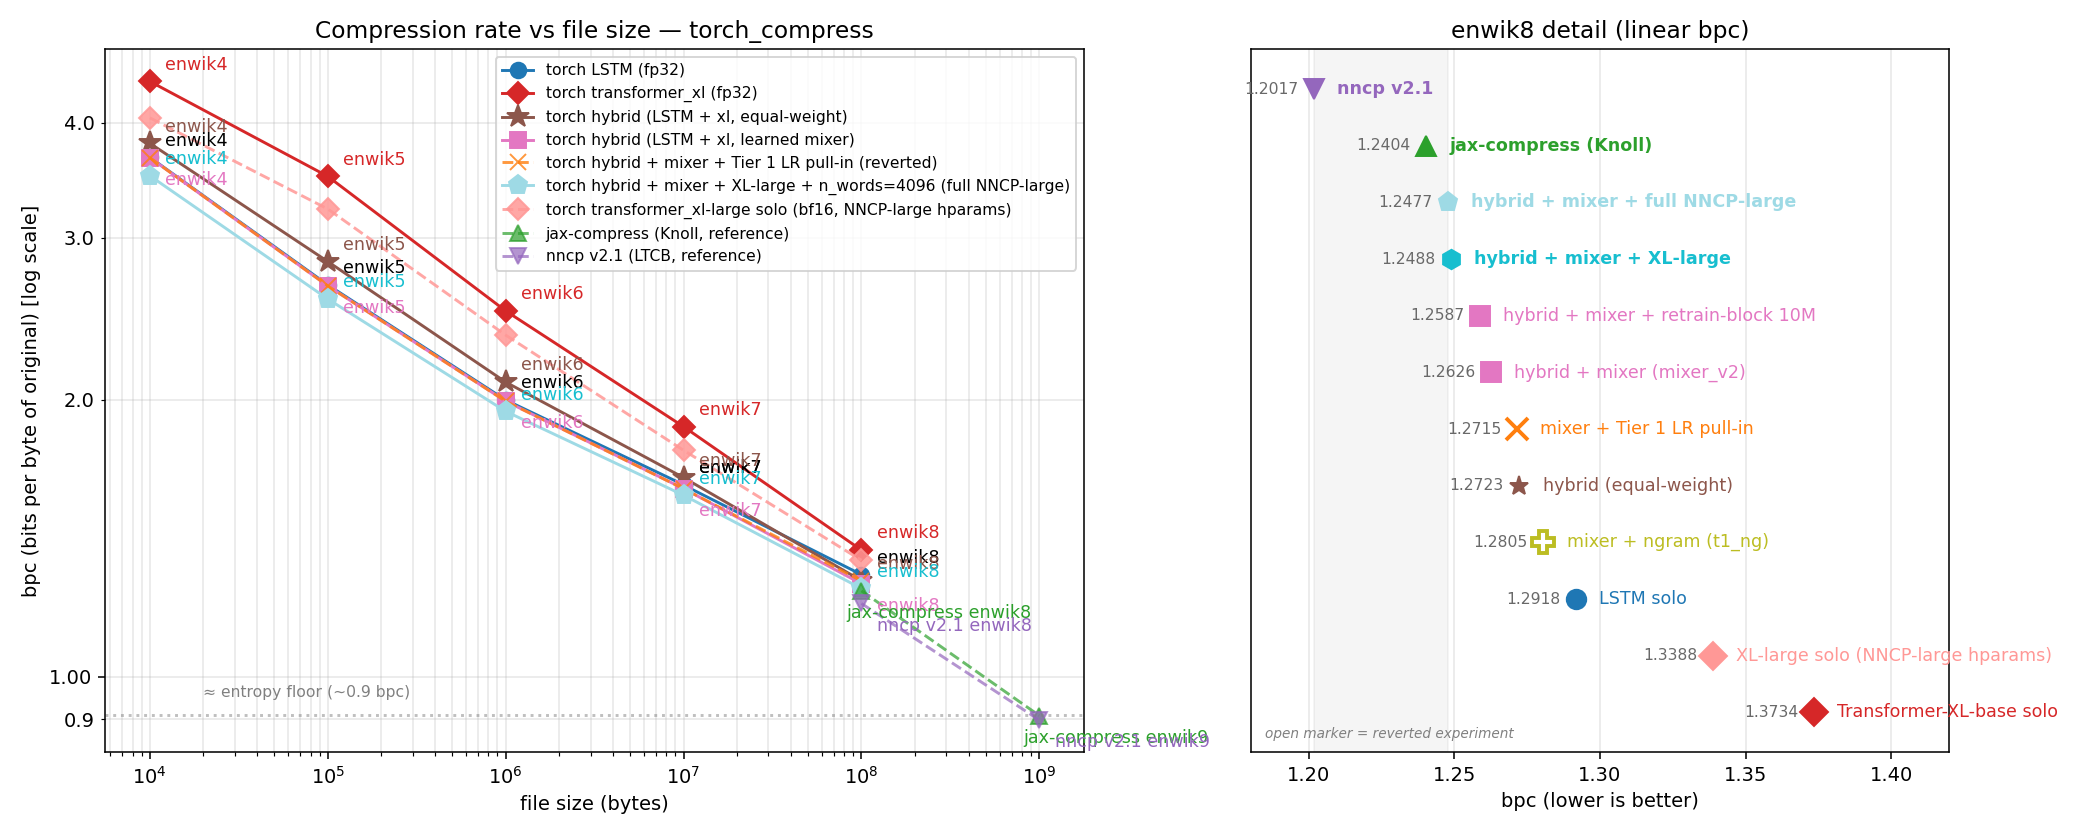
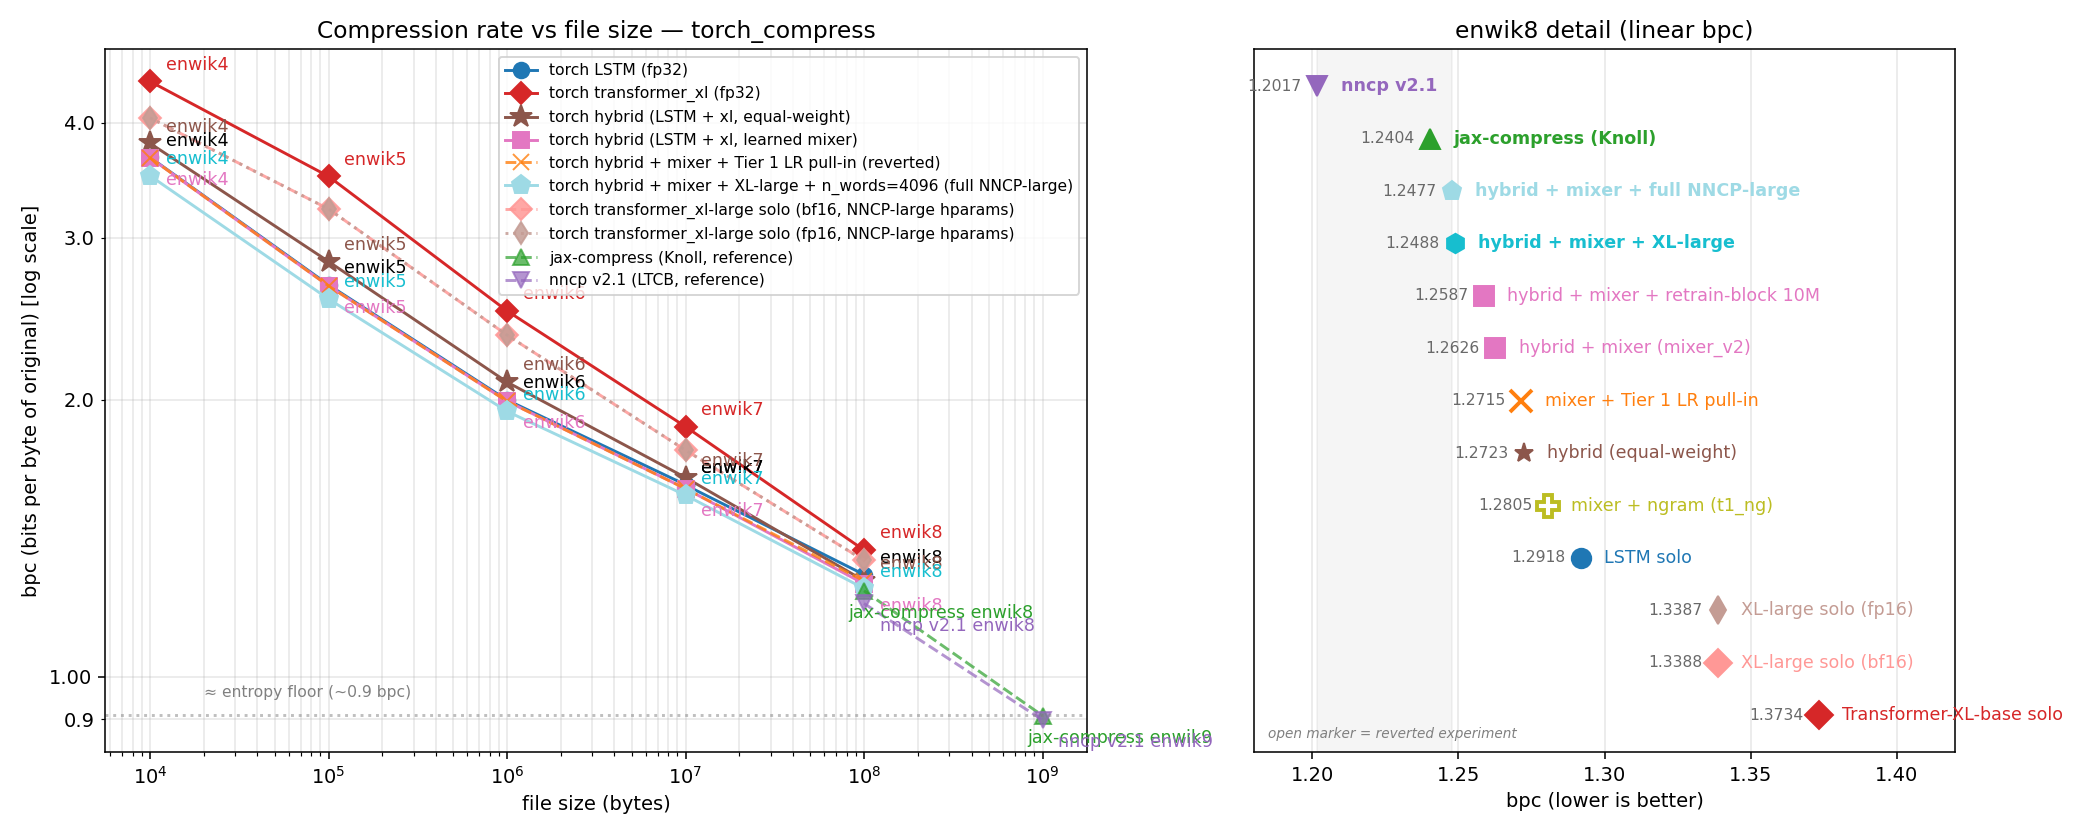
plot_bpc: add XL-large solo (fp16) curve; rules out precision as the gap
New series: transformer_xl-large solo at fp16 mixed precision (the NNCP
config) across enwik4-8. Tests whether the 0.137 bpc gap from our XL
solo at bf16 (1.3388) to NNCP v2.1 (1.2017) is explained by precision.

Results vs the bf16 sweep:

  Size    bf16    fp16    Δ
  enwik4  4.0496  4.0496   0.0000
  enwik5  3.2240  3.2241  +0.0001
  enwik6  2.3516  2.3521  +0.0005
  enwik7  1.7630  1.7636  +0.0006
  enwik8  1.3388  1.3387  -0.0001

Conclusion: precision is conclusively NOT the gap. fp16 lands within
0.001 bpc of bf16 at every scale (fp16 marginally worse at enwik5-7,
indistinguishable at enwik4/8). If precision were the 0.137 bpc gap to
NNCP, fp16 would beat bf16 by 0.1+, not match it.

The +0.001 bpc drift at enwik6/7 is plausibly fp16's small exponent
range causing occasional gradient near-underflows that perturb training
slightly. Notably this happens WITHOUT GradScaler -- the autocast(fp16)
path was stable end-to-end at enwik8 (485K steps, no NaN, no blowup).
GradScaler is therefore optional for our use case.

So the 0.137 bpc gap to NNCP lives elsewhere. Most likely candidates
moving up the list:

  1) Deterministic-mode kernels (torch.use_deterministic_algorithms
     plus CUBLAS_WORKSPACE_CONFIG=:4096:8). Forces specific cuBLAS /
     cuDNN paths with known numerical differences from the
     non-deterministic kernels NNCP uses.
  2) Training-loop fidelity drift in our port from jax-compress's
     intermediate.
[…]

diff --git a/jax_compress/scripts/plot_bpc.py b/jax_compress/scripts/plot_bpc.py
@@ -191,6 +191,19 @@ TRANSFORMER_XL_LARGE_SOLO_DATA = [
     (100_000_000, 1.3388, 'enwik8', 'bf16', 'nncp'),
 ]
 
+# Same XL-large solo config but with fp16 mixed precision (--use-fp16
+# --no-bf16). NNCP uses fp16 (per nncp_enwik_*.sh: --fp16); this run
+# tests whether bf16-vs-fp16 explains the 0.137 bpc gap from our XL
+# solo to NNCP v2.1's. Conclusion: it does not -- fp16 lands within
+# 0.001 bpc of bf16 at every scale.
+TRANSFORMER_XL_LARGE_SOLO_FP16_DATA = [
+    (    10_000, 4.0496, 'enwik4', 'fp16', 'none'),
+    (   100_000, 3.2241, 'enwik5', 'fp16', 'nncp'),
+    ( 1_000_000, 2.3521, 'enwik6', 'fp16', 'nncp'),
+    (10_000_000, 1.7636, 'enwik7', 'fp16', 'nncp'),
+    (100_000_000, 1.3387, 'enwik8', 'fp16', 'nncp'),
+]
+
 HYBRID_MIXER_XL_LARGE_FULL_DATA = [
     # enwik4: 37s, --preprocess none (file too small for an n-words=4096
     # dictionary). -0.1624 bpc vs mixer baseline (3.6656 -> 3.5032). The
@@ -317,6 +330,15 @@ def _plot_transformer_xl_large_solo(ax):
                 markersize=8, alpha=0.85)
 
 
+def _plot_transformer_xl_large_solo_fp16(ax):
+    pts = _dedup_pts(TRANSFORMER_XL_LARGE_SOLO_FP16_DATA)
+    if pts:
+        xs, ys, _ = zip(*pts)
+        ax.plot(xs, ys, 'd:', color='#c49c94',
+                label='torch transformer_xl-large solo (fp16, NNCP-large hparams)',
+                markersize=8, alpha=0.85)
+
+
 def _plot_refs(ax):
     if JAX_REF:
         xs, ys, _ = zip(*JAX_REF)
@@ -371,7 +393,8 @@ def _enwik8_detail(ax):
     add('mixer + Tier 1 LR pull-in', 1.2715, '#ff7f0e', 'x', False)
     add('mixer + ngram (t1_ng)', 1.2805, '#bcbd22', 'P', False)
     add('LSTM solo', 1.2918, '#1f77b4', 'o', True)
-    add('XL-large solo (NNCP-large hparams)', 1.3388, '#ff9896', 'D', True)
+    add('XL-large solo (bf16)', 1.3388, '#ff9896', 'D', True)
+    add('XL-large solo (fp16)', 1.3387, '#c49c94', 'd', True)
     add('Transformer-XL-base solo', 1.3734, '#d62728', 'D', True)
     pts.sort(key=lambda r: r[1])
     for i, (label, bpc, color, marker, fill, weight) in enumerate(pts):
@@ -416,6 +439,7 @@ def main():
     #     sweep). Single-point curve; same reason as above.
     _plot_hybrid_mixer_xl_large_full(ax_main)
     _plot_transformer_xl_large_solo(ax_main)
+    _plot_transformer_xl_large_solo_fp16(ax_main)
     _plot_refs(ax_main)
     _format_axis(ax_main, 'Compression rate vs file size — torch_compress')
     _enwik8_detail(ax_detail)